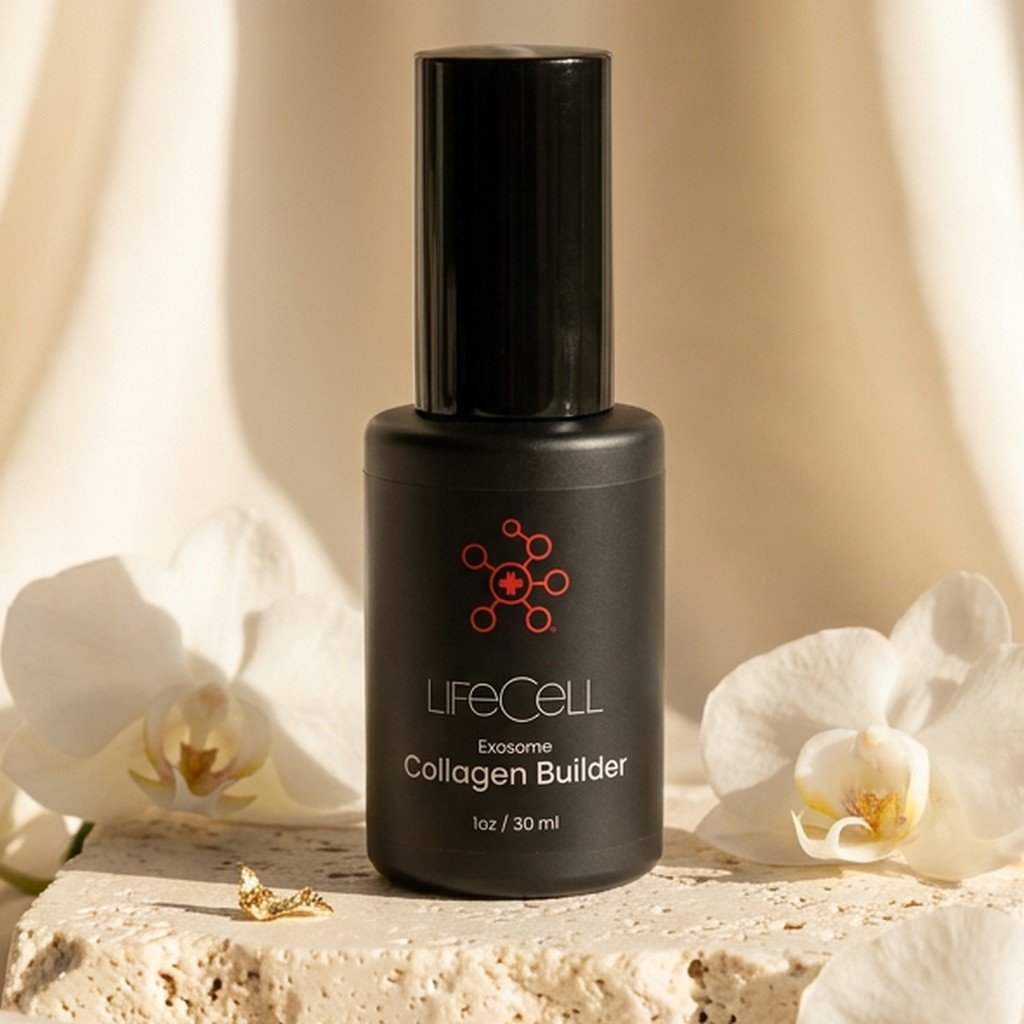
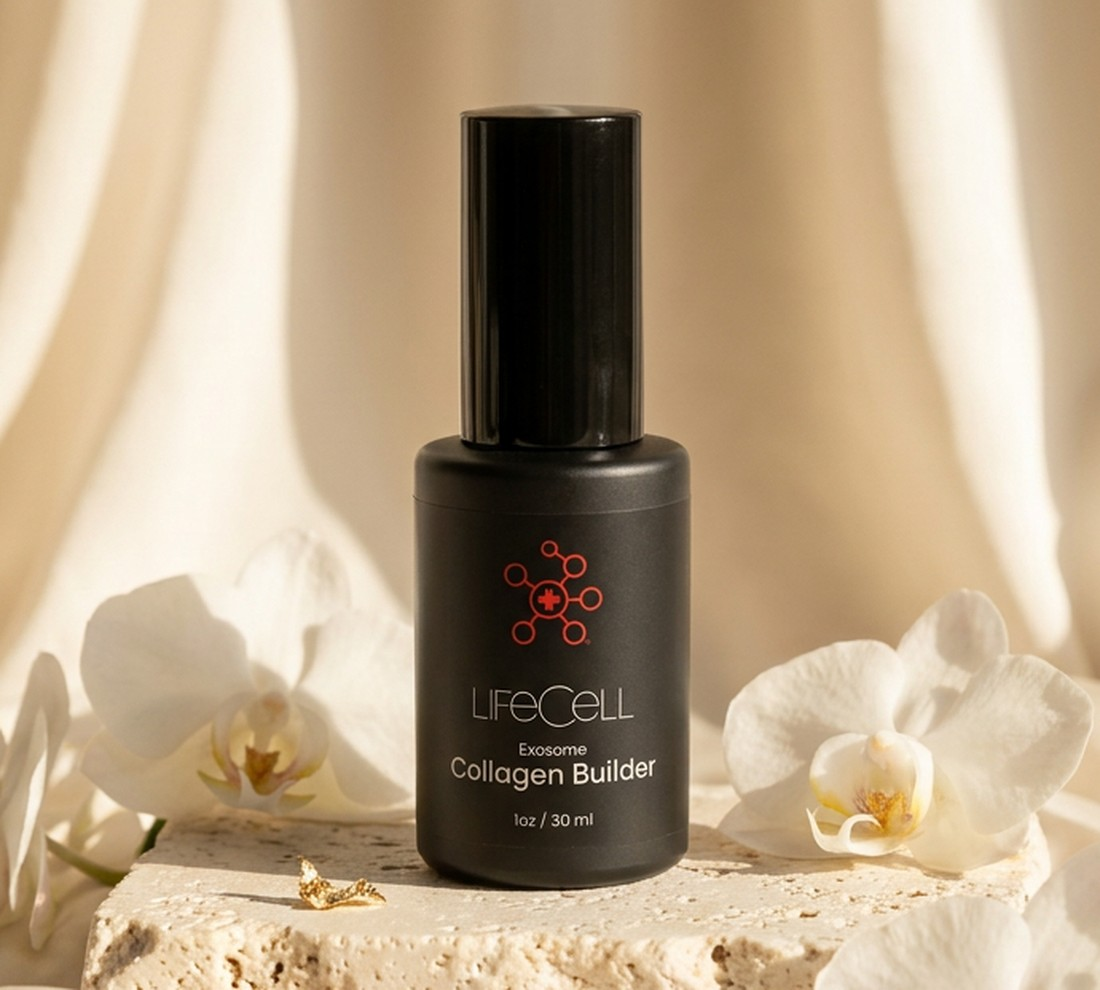
Exosome B: hero crop 10:9 with headroom (no cut cap)

diff --git a/exosome/c/index.html b/exosome/c/index.html
@@ -12,7 +12,7 @@
 <link rel="preconnect" href="https://fonts.googleapis.com"><link rel="preconnect" href="https://fonts.gstatic.com" crossorigin>
 <link rel="preload" as="image" href="../assets/hero.webp" type="image/webp" fetchpriority="high">
 <link rel="stylesheet" href="https://fonts.googleapis.com/css2?family=Fraunces:ital,opsz,wght@0,9..144,400;0,9..144,500;1,9..144,400;1,9..144,500&family=Manrope:wght@400;500;600;700;800&display=swap">
-<link rel="stylesheet" href="style.css?v=202611252131">
+<link rel="stylesheet" href="style.css?v=202611252133">
 </head>
 <body>
 <div class="lc-page" data-design="c">
@@ -47,7 +47,7 @@
 <section class="ba alt" id="results">
   <div class="container center">
     <p class="eyebrow">Visible results</p><h2 class="section-title"><span class="l1">Firmer, smoother,</span> <span class="l2">calmer-looking skin</span></h2>
-    <ul class="ba-list"><li><picture><source srcset="../assets/ba1.webp?v=202611252131" type="image/webp"><img src="../assets/ba1.jpg?v=202611252131" alt="Before and after: Eye Area" width="908" height="620" loading="lazy" decoding="async"></picture><h3>EYE AREA</h3><p>Under-eye · fine lines &amp; dark circles</p></li><li><picture><source srcset="../assets/ba2.webp?v=202611252131" type="image/webp"><img src="../assets/ba2.jpg?v=202611252131" alt="Before and after: Mouth &amp; Smile Lines" width="908" height="620" loading="lazy" decoding="async"></picture><h3>MOUTH &amp; SMILE LINES</h3><p>Nasolabial folds · lip lines</p></li><li><picture><source srcset="../assets/ba3.webp?v=202611252131" type="image/webp"><img src="../assets/ba3.jpg?v=202611252131" alt="Before and after: Crow’S Feet" width="908" height="620" loading="lazy" decoding="async"></picture><h3>CROW’S FEET</h3><p>Outer eye · expression lines</p></li></ul>
+    <ul class="ba-list"><li><picture><source srcset="../assets/ba1.webp?v=202611252133" type="image/webp"><img src="../assets/ba1.jpg?v=202611252133" alt="Before and after: Eye Area" width="908" height="620" loading="lazy" decoding="async"></picture><h3>EYE AREA</h3><p>Under-eye · fine lines &amp; dark circles</p></li><li><picture><source srcset="../assets/ba2.webp?v=202611252133" type="image/webp"><img src="../assets/ba2.jpg?v=202611252133" alt="Before and after: Mouth &amp; Smile Lines" width="908" height="620" loading="lazy" decoding="async"></picture><h3>MOUTH &amp; SMILE LINES</h3><p>Nasolabial folds · lip lines</p></li><li><picture><source srcset="../assets/ba3.webp?v=202611252133" type="image/webp"><img src="../assets/ba3.jpg?v=202611252133" alt="Before and after: Crow’S Feet" width="908" height="620" loading="lazy" decoding="async"></picture><h3>CROW’S FEET</h3><p>Outer eye · expression lines</p></li></ul>
     <p class="tiny">Individual results may vary.</p>
   </div>
 </section>
@@ -55,7 +55,7 @@
 <section class="why">
   <div class="container">
     <p class="eyebrow">Why skin ages</p><h2 class="section-title"><span class="l1">As we age, skin</span> <span class="l2">stops repairing itself</span></h2>
-    <picture><source srcset="../assets/c-why.webp?v=202611252131" type="image/webp"><img src="../assets/c-why.jpg?v=202611252131" alt="Close-up of a woman’s skin" width="1100" height="1100" class="why-img" loading="lazy" decoding="async"></picture>
+    <picture><source srcset="../assets/c-why.webp?v=202611252133" type="image/webp"><img src="../assets/c-why.jpg?v=202611252133" alt="Close-up of a woman’s skin" width="1100" height="1100" class="why-img" loading="lazy" decoding="async"></picture>
     <ol class="why-list">
       <li><span class="n">01</span><div><h3>Collagen breaks down</h3><p>It breaks down faster than the skin can rebuild it.</p></div></li>
       <li><span class="n">02</span><div><h3>Inflammation increases</h3><p>Skin gets more reactive, red and irritated.</p></div></li>
@@ -68,7 +68,7 @@
 <section class="how alt">
   <div class="container">
     <p class="eyebrow">The nightly ritual</p><h2 class="section-title"><span class="l1">Four steps,</span> <span class="l2">two minutes a night</span></h2>
-    <ol class="steps"><li><picture><source srcset="../assets/step1.webp?v=202611252131" type="image/webp"><img src="../assets/step1.jpg?v=202611252131" alt="" width="1100" height="1100" loading="lazy" decoding="async"></picture><span class="num">01</span><h3>Cleanse</h3><p>Start with clean, dry skin every evening.</p></li><li><picture><source srcset="../assets/c-step2.webp?v=202611252131" type="image/webp"><img src="../assets/c-step2.jpg?v=202611252131" alt="" width="1100" height="1100" loading="lazy" decoding="async"></picture><span class="num">02</span><h3>Apply</h3><p>Dispense a small amount of serum onto your fingertips.</p></li><li><picture><source srcset="../assets/step3.webp?v=202611252131" type="image/webp"><img src="../assets/step3.jpg?v=202611252131" alt="" width="1100" height="1100" loading="lazy" decoding="async"></picture><span class="num">03</span><h3>Press in</h3><p>Gently press into face, neck and décolleté until absorbed.</p></li><li><picture><source srcset="../assets/step4.webp?v=202611252131" type="image/webp"><img src="../assets/step4.jpg?v=202611252131" alt="" width="1100" height="1100" loading="lazy" decoding="async"></picture><span class="num">04</span><h3>Wake up</h3><p>To firmer, smoother, younger-looking skin.</p></li></ol>
+    <ol class="steps"><li><picture><source srcset="../assets/step1.webp?v=202611252133" type="image/webp"><img src="../assets/step1.jpg?v=202611252133" alt="" width="1100" height="1100" loading="lazy" decoding="async"></picture><span class="num">01</span><h3>Cleanse</h3><p>Start with clean, dry skin every evening.</p></li><li><picture><source srcset="../assets/c-step2.webp?v=202611252133" type="image/webp"><img src="../assets/c-step2.jpg?v=202611252133" alt="" width="1100" height="1100" loading="lazy" decoding="async"></picture><span class="num">02</span><h3>Apply</h3><p>Dispense a small amount of serum onto your fingertips.</p></li><li><picture><source srcset="../assets/step3.webp?v=202611252133" type="image/webp"><img src="../assets/step3.jpg?v=202611252133" alt="" width="1100" height="1100" loading="lazy" decoding="async"></picture><span class="num">03</span><h3>Press in</h3><p>Gently press into face, neck and décolleté until absorbed.</p></li><li><picture><source srcset="../assets/step4.webp?v=202611252133" type="image/webp"><img src="../assets/step4.jpg?v=202611252133" alt="" width="1100" height="1100" loading="lazy" decoding="async"></picture><span class="num">04</span><h3>Wake up</h3><p>To firmer, smoother, younger-looking skin.</p></li></ol>
     <a class="cta" href="#order"><span>Order Now | 30% Off</span><span class="arrow" aria-hidden="true"><svg viewBox="0 0 24 24" fill="none" stroke="currentColor" stroke-width="2.2" stroke-linecap="round" stroke-linejoin="round"><path d="M5 12h14M13 6l6 6-6 6"/></svg></span></a>
   </div>
 </section>
@@ -76,7 +76,7 @@
 <section class="ingr">
   <div class="container">
     <p class="eyebrow">The formula</p><h2 class="section-title"><span class="l1">What’s inside</span> <span class="l2">the bottle</span></h2>
-    <ul class="ingr-list"><li><span class="thumb"><picture><source srcset="../assets/ing-exosomes.webp?v=202611252131" type="image/webp"><img src="../assets/ing-exosomes.jpg?v=202611252131" alt="" width="600" height="600" loading="lazy" decoding="async"></picture></span><div class="txt"><b>Plant Exosomes</b><p>Support collagen and elastin production and help repair visible and hidden skin damage. Great for aging, thinning, or sun-stressed skin.</p></div></li><li><span class="thumb"><picture><source srcset="../assets/ing-growth.webp?v=202611252131" type="image/webp"><img src="../assets/ing-growth.jpg?v=202611252131" alt="" width="600" height="600" loading="lazy" decoding="async"></picture></span><div class="txt"><b>Epidermal Growth Factor</b><p>Oligopeptide-1. Supports regeneration, encourages firmer texture, and helps soften the appearance of fine lines.</p></div></li><li><span class="thumb"><picture><source srcset="../assets/ing-vitamin.webp?v=202611252131" type="image/webp"><img src="../assets/ing-vitamin.jpg?v=202611252131" alt="" width="600" height="600" loading="lazy" decoding="async"></picture></span><div class="txt"><b>Vitamin E</b><p>Tocopheryl Acetate &amp; Tocopherol. A powerful antioxidant that helps protect against free radicals and improves long-term skin health.</p></div></li><li><span class="thumb"><picture><source srcset="../assets/ing-hydration.webp?v=202611252131" type="image/webp"><img src="../assets/ing-hydration.jpg?v=202611252131" alt="" width="600" height="600" loading="lazy" decoding="async"></picture></span><div class="txt"><b>Hydrating Complex</b><p>Polysorbate 20, xanthan gum, caprylyl glycol, citric acid. Helps deliver exosomes effectively while keeping the skin hydrated, balanced, and calm.</p></div></li></ul>
+    <ul class="ingr-list"><li><span class="thumb"><picture><source srcset="../assets/ing-exosomes.webp?v=202611252133" type="image/webp"><img src="../assets/ing-exosomes.jpg?v=202611252133" alt="" width="600" height="600" loading="lazy" decoding="async"></picture></span><div class="txt"><b>Plant Exosomes</b><p>Support collagen and elastin production and help repair visible and hidden skin damage. Great for aging, thinning, or sun-stressed skin.</p></div></li><li><span class="thumb"><picture><source srcset="../assets/ing-growth.webp?v=202611252133" type="image/webp"><img src="../assets/ing-growth.jpg?v=202611252133" alt="" width="600" height="600" loading="lazy" decoding="async"></picture></span><div class="txt"><b>Epidermal Growth Factor</b><p>Oligopeptide-1. Supports regeneration, encourages firmer texture, and helps soften the appearance of fine lines.</p></div></li><li><span class="thumb"><picture><source srcset="../assets/ing-vitamin.webp?v=202611252133" type="image/webp"><img src="../assets/ing-vitamin.jpg?v=202611252133" alt="" width="600" height="600" loading="lazy" decoding="async"></picture></span><div class="txt"><b>Vitamin E</b><p>Tocopheryl Acetate &amp; Tocopherol. A powerful antioxidant that helps protect against free radicals and improves long-term skin health.</p></div></li><li><span class="thumb"><picture><source srcset="../assets/ing-hydration.webp?v=202611252133" type="image/webp"><img src="../assets/ing-hydration.jpg?v=202611252133" alt="" width="600" height="600" loading="lazy" decoding="async"></picture></span><div class="txt"><b>Hydrating Complex</b><p>Polysorbate 20, xanthan gum, caprylyl glycol, citric acid. Helps deliver exosomes effectively while keeping the skin hydrated, balanced, and calm.</p></div></li></ul>
   </div>
 </section>
 
@@ -91,7 +91,7 @@
       <li><svg viewBox="0 0 24 24" fill="none" stroke="currentColor" stroke-width="2.2" stroke-linecap="round" stroke-linejoin="round" aria-hidden="true"><path d="m5 12.5 4.5 4.5L19 7.5"/></svg><span>Calmer, less inflamed skin</span></li>
       <li><svg viewBox="0 0 24 24" fill="none" stroke="currentColor" stroke-width="2.2" stroke-linecap="round" stroke-linejoin="round" aria-hidden="true"><path d="m5 12.5 4.5 4.5L19 7.5"/></svg><span>Faster repair from UV and environmental stress</span></li>
     </ul>
-    <picture><source srcset="../assets/c-science.webp?v=202611252131" type="image/webp"><img src="../assets/c-science.jpg?v=202611252131" alt="Close-up of eyes and smooth skin" width="936" height="492" class="sci-img" loading="lazy" decoding="async"></picture>
+    <picture><source srcset="../assets/c-science.webp?v=202611252133" type="image/webp"><img src="../assets/c-science.jpg?v=202611252133" alt="Close-up of eyes and smooth skin" width="936" height="492" class="sci-img" loading="lazy" decoding="async"></picture>
     <p class="note">Exosomes do not exfoliate or irritate. They help the skin rebuild itself, gentle enough for nightly use.</p>
   </div>
 </section>
@@ -99,7 +99,7 @@
 <section class="vs-section">
   <div class="container">
     <p class="eyebrow">Why people switch</p><h2 class="section-title"><span class="l1">LifeCell Exosomes</span> <span class="l2">vs. other serums</span></h2>
-    <picture><source srcset="../assets/c-vs.webp?v=202611252131" type="image/webp"><img src="../assets/c-vs.jpg?v=202611252131" alt="LifeCell Exosomes Collagen Builder on a mirror" width="1024" height="1024" class="vs-img" loading="lazy" decoding="async"></picture>
+    <picture><source srcset="../assets/c-vs.webp?v=202611252133" type="image/webp"><img src="../assets/c-vs.jpg?v=202611252133" alt="LifeCell Exosomes Collagen Builder on a mirror" width="1024" height="1024" class="vs-img" loading="lazy" decoding="async"></picture>
     <div class="vs-cards"><div class="vs-card us-card"><p class="vs-name">LifeCell<br><span>Exosomes</span></p><ul><li><svg viewBox="0 0 24 24" fill="none" stroke="currentColor" stroke-width="2.2" stroke-linecap="round" stroke-linejoin="round" aria-hidden="true"><path d="m5 12.5 4.5 4.5L19 7.5"/></svg><span>Exosomes + EGF</span></li><li><svg viewBox="0 0 24 24" fill="none" stroke="currentColor" stroke-width="2.2" stroke-linecap="round" stroke-linejoin="round" aria-hidden="true"><path d="m5 12.5 4.5 4.5L19 7.5"/></svg><span>Gentle on skin</span></li><li><svg viewBox="0 0 24 24" fill="none" stroke="currentColor" stroke-width="2.2" stroke-linecap="round" stroke-linejoin="round" aria-hidden="true"><path d="m5 12.5 4.5 4.5L19 7.5"/></svg><span>Nightly at home</span></li><li><svg viewBox="0 0 24 24" fill="none" stroke="currentColor" stroke-width="2.2" stroke-linecap="round" stroke-linejoin="round" aria-hidden="true"><path d="m5 12.5 4.5 4.5L19 7.5"/></svg><span>Vitamin E shield</span></li></ul></div><div class="vs-card them-card"><p class="vs-name">Other<br><span>serums</span></p><ul><li><svg viewBox="0 0 24 24" fill="none" stroke="currentColor" stroke-width="1.8" stroke-linecap="round" aria-hidden="true"><path d="M7 7l10 10M17 7 7 17"/></svg><span>No exosomes</span></li><li><svg viewBox="0 0 24 24" fill="none" stroke="currentColor" stroke-width="1.8" stroke-linecap="round" aria-hidden="true"><path d="M7 7l10 10M17 7 7 17"/></svg><span>Harsh actives</span></li><li><svg viewBox="0 0 24 24" fill="none" stroke="currentColor" stroke-width="1.8" stroke-linecap="round" aria-hidden="true"><path d="M7 7l10 10M17 7 7 17"/></svg><span>Salon visits</span></li><li><svg viewBox="0 0 24 24" fill="none" stroke="currentColor" stroke-width="1.8" stroke-linecap="round" aria-hidden="true"><path d="M7 7l10 10M17 7 7 17"/></svg><span>No antioxidants</span></li></ul></div></div>
   </div>
 </section>
@@ -107,7 +107,7 @@
 <section class="reviews alt">
   <div class="container">
     <p class="eyebrow">Reviews</p><h2 class="section-title"><span class="l1">Loved by</span> <span class="l2">thousands</span></h2>
-    <picture><source srcset="../assets/c-review.webp?v=202611252131" type="image/webp"><img src="../assets/c-review.jpg?v=202611252131" alt="Woman with LifeCell Exosomes serum" width="1100" height="1100" class="rv-img" loading="lazy" decoding="async"></picture>
+    <picture><source srcset="../assets/c-review.webp?v=202611252133" type="image/webp"><img src="../assets/c-review.jpg?v=202611252133" alt="Woman with LifeCell Exosomes serum" width="1100" height="1100" class="rv-img" loading="lazy" decoding="async"></picture>
     <ul class="rv-list"><li><span class="stars" role="img" aria-label="Rated 5 out of 5">★★★★★</span><blockquote><p>“The first anti-aging product that gave me real results without redness.”</p></blockquote><p class="who">Elena, 47</p></li><li><span class="stars" role="img" aria-label="Rated 5 out of 5">★★★★★</span><blockquote><p>“The same tight, bright look as in-office exosome treatments.”</p></blockquote><p class="who">Jenna, 58</p></li><li><span class="stars" role="img" aria-label="Rated 5 out of 5">★★★★★</span><blockquote><p>“I started seeing changes in a week. My cheeks looked lifted and my fine lines were softer.”</p></blockquote><p class="who">Marissa, 52</p></li></ul>
     <p class="disclaimer">DISCLAIMER: Our customers share their experiences on our Facebook page. With their permission, we’ve posted just a few of the hundreds of reviews.</p>
   </div>
@@ -116,7 +116,7 @@
 <section class="offer" id="order">
   <div class="container center">
     <p class="eyebrow">Start your nightly collagen-building routine today</p><h2 class="section-title"><span class="l1">Repair the skin you have.</span> <span class="l2">Rebuild the skin you want.</span></h2>
-    <picture><source srcset="../assets/c-offer.webp?v=202611252131" type="image/webp"><img src="../assets/c-offer.jpg?v=202611252131" alt="LifeCell Exosomes Collagen Builder" width="1100" height="1100" class="offer-img" decoding="async" loading="eager"></picture>
+    <picture><source srcset="../assets/c-offer.webp?v=202611252133" type="image/webp"><img src="../assets/c-offer.jpg?v=202611252133" alt="LifeCell Exosomes Collagen Builder" width="1100" height="1100" class="offer-img" decoding="async" loading="eager"></picture>
     <div class="pname"><p class="brand">LIFECELL</p><p class="prod">Exosomes Collagen Builder</p><p class="size">1 oz · 30 ml · nightly serum</p></div>
     <ul class="checks left">
       <li><svg viewBox="0 0 24 24" fill="none" stroke="currentColor" stroke-width="2.2" stroke-linecap="round" stroke-linejoin="round" aria-hidden="true"><path d="m5 12.5 4.5 4.5L19 7.5"/></svg><span>Helps restore collagen naturally</span></li>

diff --git a/exosome/b/index.html b/exosome/b/index.html
@@ -12,7 +12,7 @@
 <link rel="preconnect" href="https://fonts.googleapis.com"><link rel="preconnect" href="https://fonts.gstatic.com" crossorigin>
 <link rel="preload" as="image" href="../assets/hero.webp" type="image/webp" fetchpriority="high">
 <link rel="stylesheet" href="https://fonts.googleapis.com/css2?family=Cormorant+Garamond:ital,wght@0,500;0,600;1,500;1,600&family=Inter:wght@400;500;600;700&display=swap">
-<link rel="stylesheet" href="style.css?v=202611252131">
+<link rel="stylesheet" href="style.css?v=202611252133">
 </head>
 <body>
 <div class="lc-page" data-design="b">
@@ -25,7 +25,7 @@
     <h1>Rebuild your <em>glow overnight.</em></h1>
     <p class="sub">Plant exosomes and growth factors help your skin repair itself while you sleep.</p>
   </div>
-  <div class="hero-media"><picture><source srcset="../assets/b-hero.webp?v=202611252131" type="image/webp"><img src="../assets/b-hero.jpg?v=202611252131" alt="LifeCell Exosomes Collagen Builder serum bottle" width="1100" height="1100" fetchpriority="high"></picture></div>
+  <div class="hero-media"><picture><source srcset="../assets/b-hero.webp?v=202611252133" type="image/webp"><img src="../assets/b-hero.jpg?v=202611252133" alt="LifeCell Exosomes Collagen Builder serum bottle" width="1100" height="1100" fetchpriority="high"></picture></div>
   <div class="container hero-bottom">
     <ul class="fact-list">
       <li><svg viewBox="0 0 24 24" fill="none" stroke="currentColor" stroke-width="2.2" stroke-linecap="round" stroke-linejoin="round" aria-hidden="true"><path d="m5 12.5 4.5 4.5L19 7.5"/></svg><span>No exfoliation</span></li>
@@ -47,7 +47,7 @@
 <section class="ba alt" id="results">
   <div class="container center">
     <p class="eyebrow">Visible results</p><h2 class="section-title"><span class="l1">Firmer, smoother,</span> <span class="l2">calmer-looking skin</span></h2>
-    <ul class="ba-list"><li><picture><source srcset="../assets/ba1.webp?v=202611252131" type="image/webp"><img src="../assets/ba1.jpg?v=202611252131" alt="Before and after: Eye Area" width="908" height="620" loading="lazy" decoding="async"></picture><h3>EYE AREA</h3><p>Under-eye · fine lines &amp; dark circles</p></li><li><picture><source srcset="../assets/ba2.webp?v=202611252131" type="image/webp"><img src="../assets/ba2.jpg?v=202611252131" alt="Before and after: Mouth &amp; Smile Lines" width="908" height="620" loading="lazy" decoding="async"></picture><h3>MOUTH &amp; SMILE LINES</h3><p>Nasolabial folds · lip lines</p></li><li><picture><source srcset="../assets/ba3.webp?v=202611252131" type="image/webp"><img src="../assets/ba3.jpg?v=202611252131" alt="Before and after: Crow’S Feet" width="908" height="620" loading="lazy" decoding="async"></picture><h3>CROW’S FEET</h3><p>Outer eye · expression lines</p></li></ul>
+    <ul class="ba-list"><li><picture><source srcset="../assets/ba1.webp?v=202611252133" type="image/webp"><img src="../assets/ba1.jpg?v=202611252133" alt="Before and after: Eye Area" width="908" height="620" loading="lazy" decoding="async"></picture><h3>EYE AREA</h3><p>Under-eye · fine lines &amp; dark circles</p></li><li><picture><source srcset="../assets/ba2.webp?v=202611252133" type="image/webp"><img src="../assets/ba2.jpg?v=202611252133" alt="Before and after: Mouth &amp; Smile Lines" width="908" height="620" loading="lazy" decoding="async"></picture><h3>MOUTH &amp; SMILE LINES</h3><p>Nasolabial folds · lip lines</p></li><li><picture><source srcset="../assets/ba3.webp?v=202611252133" type="image/webp"><img src="../assets/ba3.jpg?v=202611252133" alt="Before and after: Crow’S Feet" width="908" height="620" loading="lazy" decoding="async"></picture><h3>CROW’S FEET</h3><p>Outer eye · expression lines</p></li></ul>
     <p class="tiny">Individual results may vary.</p>
   </div>
 </section>
@@ -55,7 +55,7 @@
 <section class="why">
   <div class="container">
     <p class="eyebrow">Why skin ages</p><h2 class="section-title"><span class="l1">As we age, skin</span> <span class="l2">stops repairing itself</span></h2>
-    <picture><source srcset="../assets/b-why.webp?v=202611252131" type="image/webp"><img src="../assets/b-why.jpg?v=202611252131" alt="Close-up of a woman’s skin" width="1100" height="1100" class="why-img" loading="lazy" decoding="async"></picture>
+    <picture><source srcset="../assets/b-why.webp?v=202611252133" type="image/webp"><img src="../assets/b-why.jpg?v=202611252133" alt="Close-up of a woman’s skin" width="1100" height="1100" class="why-img" loading="lazy" decoding="async"></picture>
     <ol class="why-list">
       <li><span class="n">01</span><div><h3>Collagen breaks down</h3><p>It breaks down faster than the skin can rebuild it.</p></div></li>
       <li><span class="n">02</span><div><h3>Inflammation increases</h3><p>Skin gets more reactive, red and irritated.</p></div></li>
@@ -68,7 +68,7 @@
 <section class="how alt">
   <div class="container">
     <p class="eyebrow">The nightly ritual</p><h2 class="section-title"><span class="l1">Four steps,</span> <span class="l2">two minutes a night</span></h2>
-    <ol class="steps"><li><picture><source srcset="../assets/step1.webp?v=202611252131" type="image/webp"><img src="../assets/step1.jpg?v=202611252131" alt="" width="1100" height="1100" loading="lazy" decoding="async"></picture><span class="num">01</span><h3>Cleanse</h3><p>Start with clean, dry skin every evening.</p></li><li><picture><source srcset="../assets/b-step2.webp?v=202611252131" type="image/webp"><img src="../assets/b-step2.jpg?v=202611252131" alt="" width="1100" height="1100" loading="lazy" decoding="async"></picture><span class="num">02</span><h3>Apply</h3><p>Dispense a small amount of serum onto your fingertips.</p></li><li><picture><source srcset="../assets/step3.webp?v=202611252131" type="image/webp"><img src="../assets/step3.jpg?v=202611252131" alt="" width="1100" height="1100" loading="lazy" decoding="async"></picture><span class="num">03</span><h3>Press in</h3><p>Gently press into face, neck and décolleté until absorbed.</p></li><li><picture><source srcset="../assets/step4.webp?v=202611252131" type="image/webp"><img src="../assets/step4.jpg?v=202611252131" alt="" width="1100" height="1100" loading="lazy" decoding="async"></picture><span class="num">04</span><h3>Wake up</h3><p>To firmer, smoother, younger-looking skin.</p></li></ol>
+    <ol class="steps"><li><picture><source srcset="../assets/step1.webp?v=202611252133" type="image/webp"><img src="../assets/step1.jpg?v=202611252133" alt="" width="1100" height="1100" loading="lazy" decoding="async"></picture><span class="num">01</span><h3>Cleanse</h3><p>Start with clean, dry skin every evening.</p></li><li><picture><source srcset="../assets/b-step2.webp?v=202611252133" type="image/webp"><img src="../assets/b-step2.jpg?v=202611252133" alt="" width="1100" height="1100" loading="lazy" decoding="async"></picture><span class="num">02</span><h3>Apply</h3><p>Dispense a small amount of serum onto your fingertips.</p></li><li><picture><source srcset="../assets/step3.webp?v=202611252133" type="image/webp"><img src="../assets/step3.jpg?v=202611252133" alt="" width="1100" height="1100" loading="lazy" decoding="async"></picture><span class="num">03</span><h3>Press in</h3><p>Gently press into face, neck and décolleté until absorbed.</p></li><li><picture><source srcset="../assets/step4.webp?v=202611252133" type="image/webp"><img src="../assets/step4.jpg?v=202611252133" alt="" width="1100" height="1100" loading="lazy" decoding="async"></picture><span class="num">04</span><h3>Wake up</h3><p>To firmer, smoother, younger-looking skin.</p></li></ol>
     <a class="cta" href="#order"><span>Order Now | 30% Off</span><span class="arrow" aria-hidden="true"><svg viewBox="0 0 24 24" fill="none" stroke="currentColor" stroke-width="2.2" stroke-linecap="round" stroke-linejoin="round"><path d="M5 12h14M13 6l6 6-6 6"/></svg></span></a>
   </div>
 </section>
@@ -76,7 +76,7 @@
 <section class="ingr">
   <div class="container">
     <p class="eyebrow">The formula</p><h2 class="section-title"><span class="l1">What’s inside</span> <span class="l2">the bottle</span></h2>
-    <ul class="ingr-list"><li><span class="thumb"><picture><source srcset="../assets/ing-exosomes.webp?v=202611252131" type="image/webp"><img src="../assets/ing-exosomes.jpg?v=202611252131" alt="" width="600" height="600" loading="lazy" decoding="async"></picture></span><div class="txt"><b>Plant Exosomes</b><p>Support collagen and elastin production and help repair visible and hidden skin damage. Great for aging, thinning, or sun-stressed skin.</p></div></li><li><span class="thumb"><picture><source srcset="../assets/ing-growth.webp?v=202611252131" type="image/webp"><img src="../assets/ing-growth.jpg?v=202611252131" alt="" width="600" height="600" loading="lazy" decoding="async"></picture></span><div class="txt"><b>Epidermal Growth Factor</b><p>Oligopeptide-1. Supports regeneration, encourages firmer texture, and helps soften the appearance of fine lines.</p></div></li><li><span class="thumb"><picture><source srcset="../assets/ing-vitamin.webp?v=202611252131" type="image/webp"><img src="../assets/ing-vitamin.jpg?v=202611252131" alt="" width="600" height="600" loading="lazy" decoding="async"></picture></span><div class="txt"><b>Vitamin E</b><p>Tocopheryl Acetate &amp; Tocopherol. A powerful antioxidant that helps protect against free radicals and improves long-term skin health.</p></div></li><li><span class="thumb"><picture><source srcset="../assets/ing-hydration.webp?v=202611252131" type="image/webp"><img src="../assets/ing-hydration.jpg?v=202611252131" alt="" width="600" height="600" loading="lazy" decoding="async"></picture></span><div class="txt"><b>Hydrating Complex</b><p>Polysorbate 20, xanthan gum, caprylyl glycol, citric acid. Helps deliver exosomes effectively while keeping the skin hydrated, balanced, and calm.</p></div></li></ul>
+    <ul class="ingr-list"><li><span class="thumb"><picture><source srcset="../assets/ing-exosomes.webp?v=202611252133" type="image/webp"><img src="../assets/ing-exosomes.jpg?v=202611252133" alt="" width="600" height="600" loading="lazy" decoding="async"></picture></span><div class="txt"><b>Plant Exosomes</b><p>Support collagen and elastin production and help repair visible and hidden skin damage. Great for aging, thinning, or sun-stressed skin.</p></div></li><li><span class="thumb"><picture><source srcset="../assets/ing-growth.webp?v=202611252133" type="image/webp"><img src="../assets/ing-growth.jpg?v=202611252133" alt="" width="600" height="600" loading="lazy" decoding="async"></picture></span><div class="txt"><b>Epidermal Growth Factor</b><p>Oligopeptide-1. Supports regeneration, encourages firmer texture, and helps soften the appearance of fine lines.</p></div></li><li><span class="thumb"><picture><source srcset="../assets/ing-vitamin.webp?v=202611252133" type="image/webp"><img src="../assets/ing-vitamin.jpg?v=202611252133" alt="" width="600" height="600" loading="lazy" decoding="async"></picture></span><div class="txt"><b>Vitamin E</b><p>Tocopheryl Acetate &amp; Tocopherol. A powerful antioxidant that helps protect against free radicals and improves long-term skin health.</p></div></li><li><span class="thumb"><picture><source srcset="../assets/ing-hydration.webp?v=202611252133" type="image/webp"><img src="../assets/ing-hydration.jpg?v=202611252133" alt="" width="600" height="600" loading="lazy" decoding="async"></picture></span><div class="txt"><b>Hydrating Complex</b><p>Polysorbate 20, xanthan gum, caprylyl glycol, citric acid. Helps deliver exosomes effectively while keeping the skin hydrated, balanced, and calm.</p></div></li></ul>
   </div>
 </section>
 
@@ -91,7 +91,7 @@
       <li><svg viewBox="0 0 24 24" fill="none" stroke="currentColor" stroke-width="2.2" stroke-linecap="round" stroke-linejoin="round" aria-hidden="true"><path d="m5 12.5 4.5 4.5L19 7.5"/></svg><span>Calmer, less inflamed skin</span></li>
       <li><svg viewBox="0 0 24 24" fill="none" stroke="currentColor" stroke-width="2.2" stroke-linecap="round" stroke-linejoin="round" aria-hidden="true"><path d="m5 12.5 4.5 4.5L19 7.5"/></svg><span>Faster repair from UV and environmental stress</span></li>
     </ul>
-    <picture><source srcset="../assets/b-science.webp?v=202611252131" type="image/webp"><img src="../assets/b-science.jpg?v=202611252131" alt="Close-up of eyes and smooth skin" width="936" height="492" class="sci-img" loading="lazy" decoding="async"></picture>
+    <picture><source srcset="../assets/b-science.webp?v=202611252133" type="image/webp"><img src="../assets/b-science.jpg?v=202611252133" alt="Close-up of eyes and smooth skin" width="936" height="492" class="sci-img" loading="lazy" decoding="async"></picture>
     <p class="note">Exosomes do not exfoliate or irritate. They help the skin rebuild itself, gentle enough for nightly use.</p>
   </div>
 </section>
@@ -111,7 +111,7 @@
 <section class="reviews alt">
   <div class="container">
     <p class="eyebrow">Reviews</p><h2 class="section-title"><span class="l1">Loved by</span> <span class="l2">thousands</span></h2>
-    <picture><source srcset="../assets/b-review.webp?v=202611252131" type="image/webp"><img src="../assets/b-review.jpg?v=202611252131" alt="Woman with LifeCell Exosomes serum" width="1100" height="1100" class="rv-img" loading="lazy" decoding="async"></picture>
+    <picture><source srcset="../assets/b-review.webp?v=202611252133" type="image/webp"><img src="../assets/b-review.jpg?v=202611252133" alt="Woman with LifeCell Exosomes serum" width="1100" height="1100" class="rv-img" loading="lazy" decoding="async"></picture>
     <ul class="rv-list"><li><span class="stars" role="img" aria-label="Rated 5 out of 5">★★★★★</span><blockquote><p>“The first anti-aging product that gave me real results without redness.”</p></blockquote><p class="who">Elena, 47</p></li><li><span class="stars" role="img" aria-label="Rated 5 out of 5">★★★★★</span><blockquote><p>“The same tight, bright look as in-office exosome treatments.”</p></blockquote><p class="who">Jenna, 58</p></li><li><span class="stars" role="img" aria-label="Rated 5 out of 5">★★★★★</span><blockquote><p>“I started seeing changes in a week. My cheeks looked lifted and my fine lines were softer.”</p></blockquote><p class="who">Marissa, 52</p></li></ul>
     <p class="disclaimer">DISCLAIMER: Our customers share their experiences on our Facebook page. With their permission, we’ve posted just a few of the hundreds of reviews.</p>
   </div>
@@ -120,7 +120,7 @@
 <section class="offer" id="order">
   <div class="container center">
     <p class="eyebrow">Start your nightly collagen-building routine today</p><h2 class="section-title"><span class="l1">Repair the skin you have.</span> <span class="l2">Rebuild the skin you want.</span></h2>
-    <picture><source srcset="../assets/b-offer.webp?v=202611252131" type="image/webp"><img src="../assets/b-offer.jpg?v=202611252131" alt="LifeCell Exosomes Collagen Builder" width="1100" height="1100" class="offer-img" decoding="async" loading="eager"></picture>
+    <picture><source srcset="../assets/b-offer.webp?v=202611252133" type="image/webp"><img src="../assets/b-offer.jpg?v=202611252133" alt="LifeCell Exosomes Collagen Builder" width="1100" height="1100" class="offer-img" decoding="async" loading="eager"></picture>
     <div class="pname"><p class="brand">LIFECELL</p><p class="prod">Exosomes Collagen Builder</p><p class="size">1 oz · 30 ml · nightly serum</p></div>
     <ul class="checks left">
       <li><svg viewBox="0 0 24 24" fill="none" stroke="currentColor" stroke-width="2.2" stroke-linecap="round" stroke-linejoin="round" aria-hidden="true"><path d="m5 12.5 4.5 4.5L19 7.5"/></svg><span>Helps restore collagen naturally</span></li>
